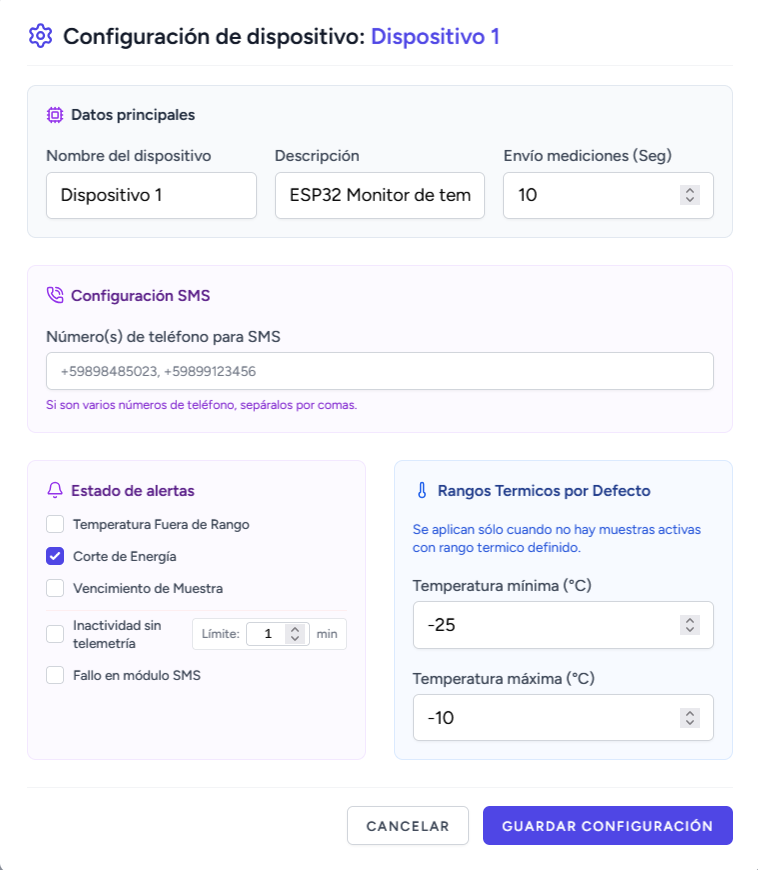
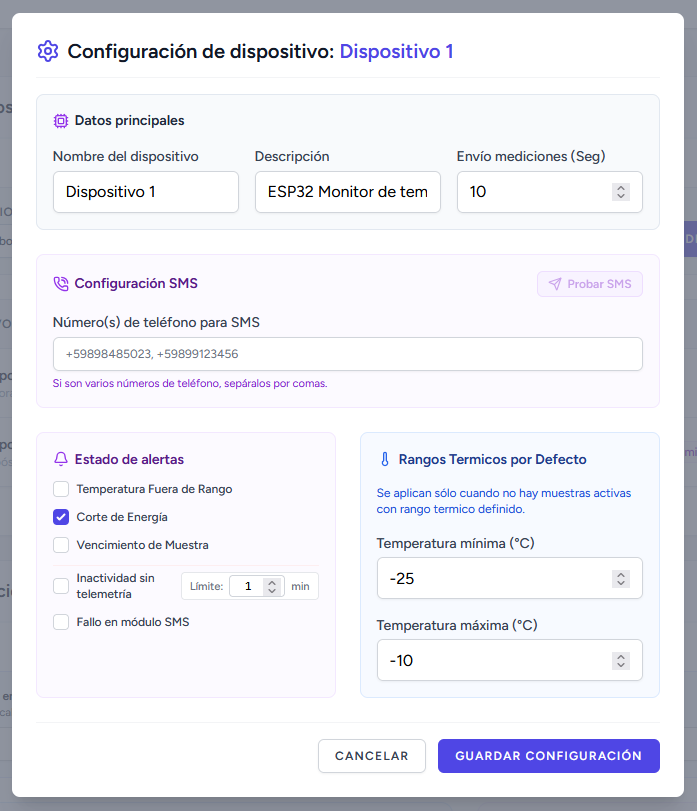
centre un div :) y algunas cosas del manual

diff --git a/resources/js/Pages/Sedes/Index.jsx b/resources/js/Pages/Sedes/Index.jsx
@@ -214,7 +214,7 @@ export default function Index({ sedes, freezersSinLaboratorio, usuarios, filtros
                     </div>
 
                     {/* Tabs de navegación */}
-                    <div className="flex flex-wrap items-center gap-3">
+                    <div className="flex flex-wrap items-center justify-center gap-3">
                         {[
                             ['estructura', `Estructura (${sedes.length})`, Building2],
                             ['participantes', `Participantes (${usuarios.total})`, Users],

diff --git a/MANUAL_DE_USO.md b/MANUAL_DE_USO.md
@@ -209,7 +209,7 @@ Ubicado en la ruta **/mediciones**, este módulo funciona como la bitácora de a
 
 Accesible desde **/muestras**, es el catálogo de todo el material biológico, químico y reactivos custodiados en los freezers.
 
-<!-- No hay captura dedicada de la pantalla de muestras actualmente -->
+![Muestras](imagenes/Muestras.PNG)
 
 ### 6.1 Indicador Visual de Riesgo en Freezer
 Si un freezer experimenta una falla térmica o un corte de energía, todas las muestras almacenadas en ese equipo se resaltarán automáticamente con fondo rojizo y un ícono de advertencia pulsante. Esto permite al personal identificar al instante qué material debe ser reubicado con urgencia.
@@ -245,7 +245,7 @@ Para preservar la trazabilidad científica de las investigaciones, las muestras 
 
 Accesible desde **/alertas**, constituye el centro neurálgico de incidentes de la plataforma.
 
-![Alertas del Dashboard](imagenes/alertas%20dashboard.PNG)
+![Alertas del Dashboard](imagenes/alertas dashboard.PNG)
 
 ### 7.1 Estados de Alerta: Pendiente vs Resuelta
 * **Icono Rojo `Pendiente`:** El problema persiste o aún no ha sido verificado por un operador.
@@ -274,7 +274,7 @@ Cuando se produce una alerta crítica, el sistema despacha correos automáticos 
 
 Accesible únicamente para usuarios con permisos directivos o de administración general desde **/usuarios**.
 
-<!-- No hay captura dedicada de la pantalla de usuarios actualmente -->
+![Usuarios](imagenes/usuarios.PNG)
 
 ### 8.1 Creación de Usuarios
 * **Botón `CREAR USUARIO`:** Despliega un formulario modal donde se ingresan:
@@ -320,6 +320,8 @@ La pestaña **Estructura** muestra una guía de pasos y la jerarquía organizaci
 
 ### 9.2 Asignación de Freezers a Laboratorios
 
+![Asignación de Freezers](imagenes/sedes.PNG)
+
 En la sección inferior de la pestaña Estructura se muestra la lista de **Freezers sin Laboratorio** (pendientes de asignación). Para cada freezer:
 * Selecciona el laboratorio de destino del desplegable (organizado como *"Sede / Laboratorio"*).
 * Presiona **Asignar** para vincular el freezer al laboratorio.
@@ -330,6 +332,8 @@ En la sección inferior de la pestaña Estructura se muestra la lista de **Freez
 ### 9.3 Participantes de Muestras
 
 La pestaña **Participantes** permite gestionar a los alumnos y colaboradores que participan de muestras pero no tienen cuenta de acceso al sistema.
+
+![Participantes](imagenes/participantes.PNG)
 
 * **Botón `Crear Participante`:** Despliega un formulario con:
   * Nombre completo.
@@ -360,6 +364,9 @@ Ubicado en **/configuracion**, este módulo permite vincular el hardware IoT con
 ![Configuración de Dispositivos](imagenes/configuracion.PNG)
 
 * **Botón `AGREGAR DISPOSITIVO`:** Permite registrar una nueva placa ESP32 y asociarla a un freezer existente o crear una nueva ubicación física de laboratorio (ej. *"Lab Biología Molecular - Freezer 3"*).
+
+![Configurar Dispositivo](imagenes/configurar dispositivo.PNG)
+
 * **Botón `Configurar Dispositivo`:** Despliega el modal de ajuste fino del microcontrolador:
   1. **Envío de Telemetría (Segundos):** Frecuencia con la que el ESP32 transmite datos vía WiFi/MQTT (por defecto: `5 segundos`).
   2. **Números de Teléfono para SMS:** Números móviles de guardia (ej: `+59898485023, +59899123456`) que recibirán mensajes de texto urgentes si falla la red o sube la temperatura.
@@ -375,7 +382,7 @@ Ubicado en **/configuracion**, este módulo permite vincular el hardware IoT con
 
 ### 10.2 Parámetros Globales del Sistema
 
-![Configurar Dispositivo](imagenes/configurar%20dispositivo.PNG)
+![Configurar correo](imagenes/correos.PNG)
 
 * **Frecuencia de Envío de Correos:** Intervalo en minutos en el que el servidor recalcula y reenvía recordatorios de contingencias no resueltas (ej. cada `1 minuto`).
 * **Email por Defecto del Sistema:** Casilla de correo institucional que recibe copia de auditoría de todas las incidencias registradas en el centro.
@@ -410,8 +417,6 @@ Haciendo clic en tu nombre en la parte inferior de la barra lateral izquierda y 
 ## 12. Glosario Visual de Botones e Iconos
 
 A continuación se detalla la función de cada botón presente en la aplicación web:
-
-<!-- La iconografía se describe en la tabla a continuación -->
 
 | Icono / Botón | Color | Ubicación en la Web | Acción que realiza |
 |---|---|---|---|
